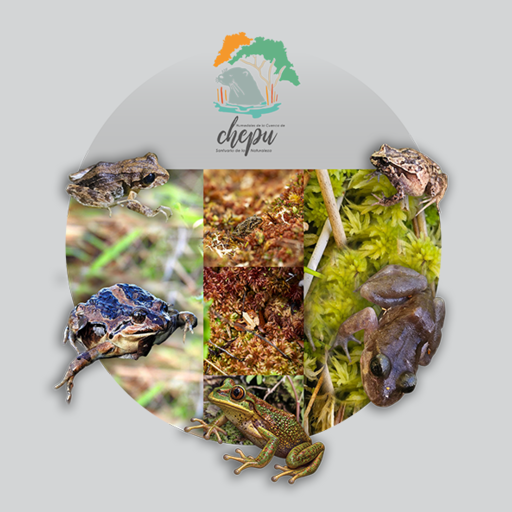
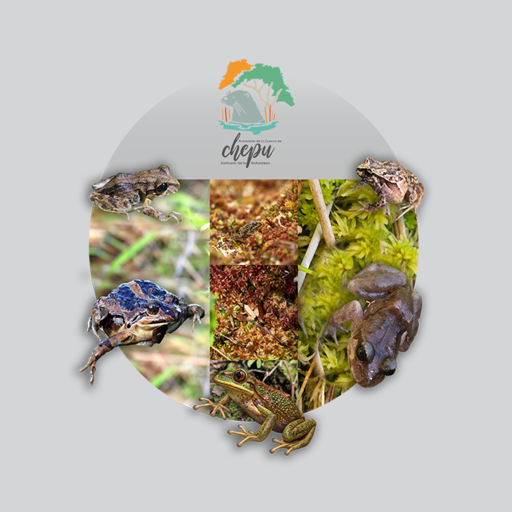
movile desktop correction

diff --git a/index.html b/index.html
@@ -4,8 +4,10 @@
     <meta charset="UTF-8">
     <meta name="viewport" content="width=device-width, initial-scale=1.0">
     <title>ANFIBIOS - CHILOÉ</title>
+    <link rel="icon" type="image/png" sizes="192x192" href="fotos/WelcomeimageIcon-192.png">
     <link rel="icon" type="image/png" sizes="512x512" href="fotos/WelcomeimageIcon.png">
-    <link rel="apple-touch-icon" sizes="512x512" href="fotos/WelcomeimageIcon.png">
+    <link rel="apple-touch-icon" href="fotos/WelcomeimageIcon-192.png">
+    <link rel="manifest" href="manifest.webmanifest">
     <link rel="stylesheet" href="style.css">
 </head>
 
